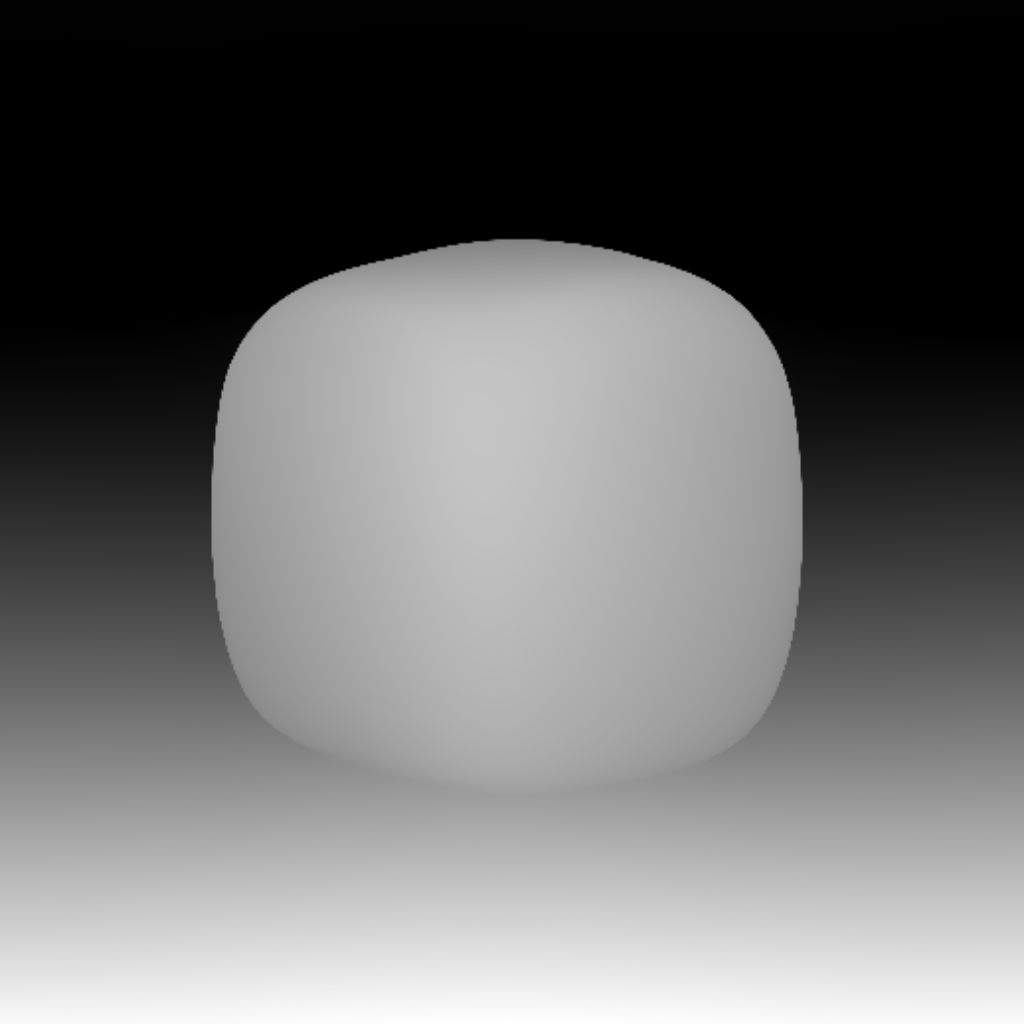
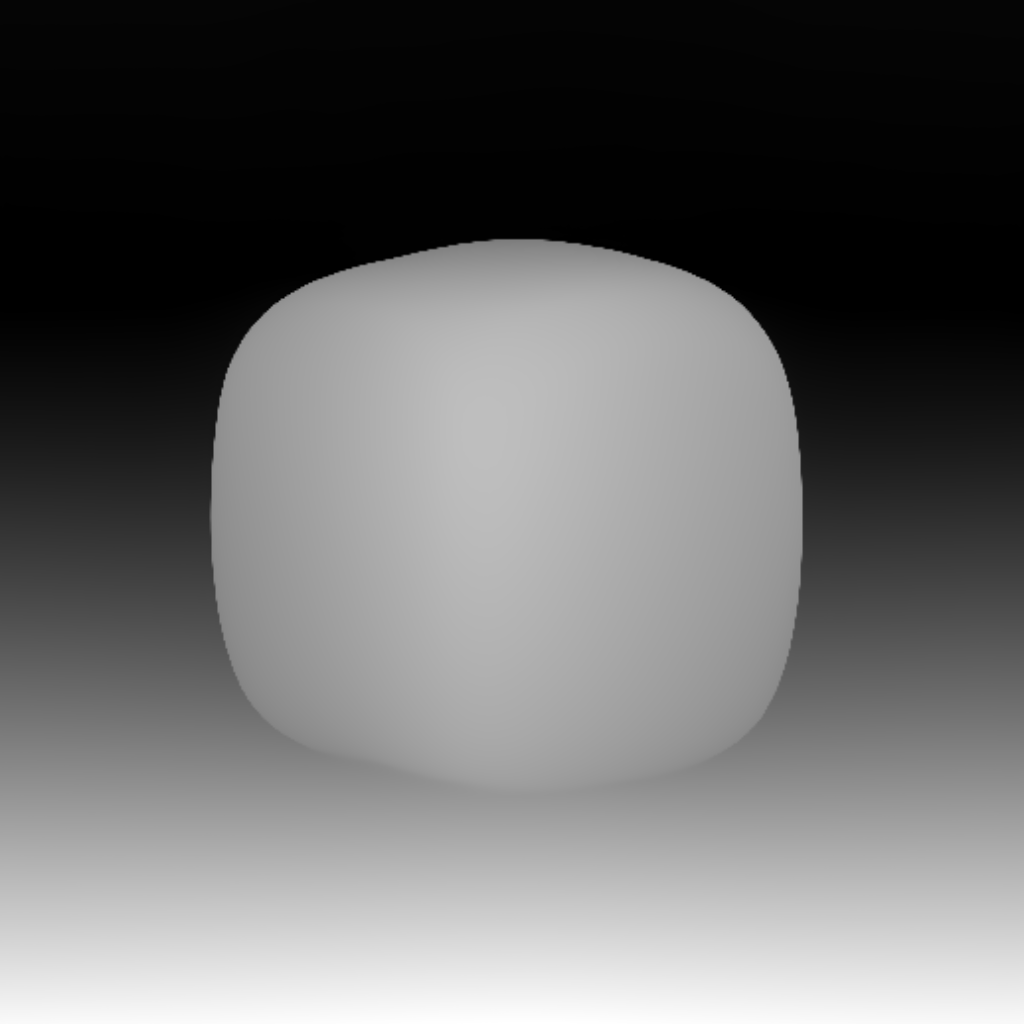
feat(taerea): curate to 8 complete-triad products, click-to-cycle 3 views
Settle: Stack Vessel, Cord Disc, Hook, Travel Block — all a/b/c or
objekt/material/moment, complete triads only.
Carry: swapped in the 4 real PLA prototypes (Dosing Pipette, Carry Card,
Module Hook Rail, Mirror Clip System) — decided products get all 3 views.

New shared assets/product_views.js: click the image, cycles through its
3 views with a dot indicator. depth-parallax rewired to the primary view
of each swapped product (6 new depth+displacement maps generated).

Root's Brass Weight: depth map is unusable (Depth Anything V2 can't
resolve facets on reflective brass — tried both base and large models,
same flat-blob result) — depth-parallax disabled for that one image
rather than shipping a broken-looking effect.

Changed region(s): [[0.0, 0.0, 1.0, 0.3438], [0.7188, 0.2812, 1.0, 0.3438]]

diff --git a/carry.html b/carry.html
@@ -158,6 +158,29 @@
     overflow: hidden;
   }
 
+  .view-dots {
+    position: absolute;
+    bottom: 0.8vw;
+    left: 50%;
+    transform: translateX(-50%);
+    display: flex;
+    gap: 0.5vw;
+    z-index: 2;
+  }
+
+  .view-dot {
+    width: 0.4vw;
+    height: 0.4vw;
+    border-radius: 50%;
+    background: rgba(255,255,255,0.5);
+    transition: background 0.25s ease, transform 0.25s ease;
+  }
+
+  .view-dot.active {
+    background: #8a9ab8;
+    transform: scale(1.3);
+  }
+
   .card-placeholder {
     width: 100%;
     height: 100%;
@@ -356,7 +379,7 @@
 
     <article class="product-card">
       <div class="card-image">
-        <img class="card-img depth-img" data-depth="assets/depth_disp/carry_product_1_disp.png" src="assets/carry_product_1.png" alt="Stone Vessel" onerror="this.style.display='none';this.parentElement.querySelector('.card-placeholder').style.display='block';">
+        <img class="card-img depth-img views-img" data-depth="assets/depth_disp/jakob_r1_pipette_objekt_disp.png" data-views="assets/catalog/jakob_r1_pipette_objekt.png,assets/catalog/jakob_r1_pipette_material.png,assets/catalog/jakob_r1_pipette_moment.png" src="assets/catalog/jakob_r1_pipette_objekt.png" alt="Dosing Pipette" onerror="this.style.display='none';this.parentElement.querySelector('.card-placeholder').style.display='block';">
         <svg class="card-placeholder" viewBox="0 0 100 100" preserveAspectRatio="none" xmlns="http://www.w3.org/2000/svg" style="display:none;">
           <rect width="100" height="100" fill="#C8BFB0"/>
         </svg>
@@ -365,19 +388,19 @@
         </div>
       </div>
       <div class="card-meta">
-        <span class="product-category">Carry</span>
+        <span class="product-category">PLA Prototype</span>
         <div class="card-meta-row">
-          <span class="product-name">Stone Vessel</span>
+          <span class="product-name">Dosing Pipette</span>
           <span class="meta-sep">—</span>
-          <span class="product-price">€ 148</span>
+          <span class="product-price">€ 42</span>
         </div>
-        <span class="product-desc">Hand-turned limestone cup. One piece, one purpose.</span>
+        <span class="product-desc">Amber glass, white PLA cap. Click through 3 views.</span>
       </div>
     </article>
 
     <article class="product-card">
       <div class="card-image">
-        <img class="card-img depth-img" data-depth="assets/depth_disp/carry_product_2_disp.png" src="assets/carry_product_2.png" alt="Travel Incense Set" onerror="this.style.display='none';this.parentElement.querySelector('.card-placeholder').style.display='block';">
+        <img class="card-img depth-img views-img" data-depth="assets/depth_disp/jakob_r2_card_objekt_disp.png" data-views="assets/catalog/jakob_r2_card_objekt.png,assets/catalog/jakob_r2_card_material.png,assets/catalog/jakob_r2_card_moment.png" src="assets/catalog/jakob_r2_card_objekt.png" alt="Carry Card" onerror="this.style.display='none';this.parentElement.querySelector('.card-placeholder').style.display='block';">
         <svg class="card-placeholder" viewBox="0 0 100 100" preserveAspectRatio="none" xmlns="http://www.w3.org/2000/svg" style="display:none;">
           <rect width="100" height="100" fill="#A8966E"/>
         </svg>
@@ -386,19 +409,19 @@
         </div>
       </div>
       <div class="card-meta">
-        <span class="product-category">Carry</span>
+        <span class="product-category">PLA Prototype</span>
         <div class="card-meta-row">
-          <span class="product-name">Travel Incense Set</span>
+          <span class="product-name">Carry Card</span>
           <span class="meta-sep">—</span>
-          <span class="product-price">€ 89</span>
+          <span class="product-price">€ 28</span>
         </div>
-        <span class="product-desc">Brass holder, resin cones. Ritual, compressed.</span>
+        <span class="product-desc">Ultra-thin organizer, single slot. Click through 3 views.</span>
       </div>
     </article>
 
     <article class="product-card">
       <div class="card-image">
-        <img class="card-img depth-img" data-depth="assets/depth_disp/carry_product_3_disp.png" src="assets/carry_product_3.png" alt="Linen Pouch" onerror="this.style.display='none';this.parentElement.querySelector('.card-placeholder').style.display='block';">
+        <img class="card-img depth-img views-img" data-depth="assets/depth_disp/jakob_r3_rail_objekt_disp.png" data-views="assets/catalog/jakob_r3_rail_objekt.png,assets/catalog/jakob_r3_rail_material.png,assets/catalog/jakob_r3_rail_moment.png" src="assets/catalog/jakob_r3_rail_objekt.png" alt="Module Hook Rail" onerror="this.style.display='none';this.parentElement.querySelector('.card-placeholder').style.display='block';">
         <svg class="card-placeholder" viewBox="0 0 100 100" preserveAspectRatio="none" xmlns="http://www.w3.org/2000/svg" style="display:none;">
           <rect width="100" height="100" fill="#7A7260"/>
         </svg>
@@ -407,19 +430,19 @@
         </div>
       </div>
       <div class="card-meta">
-        <span class="product-category">Carry</span>
+        <span class="product-category">PLA Prototype</span>
         <div class="card-meta-row">
-          <span class="product-name">Linen Pouch</span>
+          <span class="product-name">Module Hook Rail</span>
           <span class="meta-sep">—</span>
-          <span class="product-price">€ 112</span>
+          <span class="product-price">€ 56</span>
         </div>
-        <span class="product-desc">Waxed linen, brass clasp. Carries what matters.</span>
+        <span class="product-desc">Modular wall rail, geometric slots. Click through 3 views.</span>
       </div>
     </article>
 
     <article class="product-card">
       <div class="card-image">
-        <img class="card-img depth-img" data-depth="assets/depth_disp/carry_product_4_disp.png" src="assets/carry_product_4.png" alt="Field Notebook" onerror="this.style.display='none';this.parentElement.querySelector('.card-placeholder').style.display='block';">
+        <img class="card-img depth-img views-img" data-depth="assets/depth_disp/jakob_r4_clip_objekt_disp.png" data-views="assets/catalog/jakob_r4_clip_objekt.png,assets/catalog/jakob_r4_clip_material.png,assets/catalog/jakob_r4_clip_moment.png" src="assets/catalog/jakob_r4_clip_objekt.png" alt="Mirror Clip System" onerror="this.style.display='none';this.parentElement.querySelector('.card-placeholder').style.display='block';">
         <svg class="card-placeholder" viewBox="0 0 100 100" preserveAspectRatio="none" xmlns="http://www.w3.org/2000/svg" style="display:none;">
           <rect width="100" height="100" fill="#4A4A4A"/>
         </svg>
@@ -428,13 +451,13 @@
         </div>
       </div>
       <div class="card-meta">
-        <span class="product-category">Carry</span>
+        <span class="product-category">PLA Prototype</span>
         <div class="card-meta-row">
-          <span class="product-name">Field Notebook</span>
+          <span class="product-name">Mirror Clip System</span>
           <span class="meta-sep">—</span>
-          <span class="product-price">€ 64</span>
+          <span class="product-price">€ 34</span>
         </div>
-        <span class="product-desc">Stone-paper cover. Writes anywhere, holds everything.</span>
+        <span class="product-desc">Mounts thin mirror panels. Click through 3 views.</span>
       </div>
     </article>
 
@@ -442,19 +465,21 @@
 
   <footer class="shop-footer">
     <span class="footer-left">Carry II</span>
-    <span class="tagline">Objects that travel.</span>
+    <span class="tagline">Real prototypes, real objects.</span>
     <nav class="footer-nav">
-      <a class="footer-nav-item active" href="#">Stone</a>
-      <a class="footer-nav-item" href="#">Brass</a>
-      <a class="footer-nav-item" href="#">Linen</a>
-      <a class="footer-nav-item" href="#">Paper</a>
+      <a class="footer-nav-item active" href="#">Pipette</a>
+      <a class="footer-nav-item" href="#">Card</a>
+      <a class="footer-nav-item" href="#">Rail</a>
+      <a class="footer-nav-item" href="#">Clip</a>
     </nav>
   </footer>
 
 </div>
 
 <script src="assets/depth_parallax.js"></script>
+<script src="assets/product_views.js"></script>
 <script>
+  window.initProductViews();
   window.initDepthParallax();
 </script>
 

diff --git a/settle.html b/settle.html
@@ -129,6 +129,29 @@
     overflow: hidden;
   }
 
+  .view-dots {
+    position: absolute;
+    bottom: 0.8vw;
+    left: 50%;
+    transform: translateX(-50%);
+    display: flex;
+    gap: 0.5vw;
+    z-index: 2;
+  }
+
+  .view-dot {
+    width: 0.4vw;
+    height: 0.4vw;
+    border-radius: 50%;
+    background: rgba(255,255,255,0.5);
+    transition: background 0.25s ease, transform 0.25s ease;
+  }
+
+  .view-dot.active {
+    background: #b8a98a;
+    transform: scale(1.3);
+  }
+
   .card-placeholder {
     width: 100%;
     height: 100%;
@@ -355,7 +378,7 @@
 
     <article class="product-card">
       <div class="card-image">
-        <img class="card-img depth-img" data-depth="assets/depth_disp/b6_vessel_c_disp.png" src="assets/catalog/b6_vessel_c.png" alt="Stack Vessel"
+        <img class="card-img depth-img views-img" data-depth="assets/depth_disp/b6_vessel_c_disp.png" data-views="assets/catalog/b6_vessel_a.png,assets/catalog/b6_vessel_b.png,assets/catalog/b6_vessel_c.png" src="assets/catalog/b6_vessel_c.png" alt="Stack Vessel"
           onerror="this.style.display='none';this.nextElementSibling.style.display='block';">
         <svg class="card-placeholder" viewBox="0 0 100 100" preserveAspectRatio="none" xmlns="http://www.w3.org/2000/svg" style="display:none;">
           <rect width="100" height="100" fill="#C4BDB4"/>
@@ -371,13 +394,13 @@
           <span class="meta-sep">—</span>
           <span class="product-price">€128</span>
         </div>
-        <span class="product-desc">White PLA cylinder, stackable, holds the ritual.</span>
+        <span class="product-desc">White PLA cylinder, stackable. Click through 3 views.</span>
       </div>
     </article>
 
     <article class="product-card">
       <div class="card-image">
-        <img class="card-img depth-img" data-depth="assets/depth_disp/b1_cord_disc_b_disp.png" src="assets/catalog/b1_cord_disc_b.png" alt="Cord Disc"
+        <img class="card-img depth-img views-img" data-depth="assets/depth_disp/b1_cord_disc_b_disp.png" data-views="assets/catalog/b1_cord_disc_a.png,assets/catalog/b1_cord_disc_b.png,assets/catalog/b1_cord_disc_c.png" src="assets/catalog/b1_cord_disc_b.png" alt="Cord Disc"
           onerror="this.style.display='none';this.nextElementSibling.style.display='block';">
         <svg class="card-placeholder" viewBox="0 0 100 100" preserveAspectRatio="none" xmlns="http://www.w3.org/2000/svg" style="display:none;">
           <rect width="100" height="100" fill="#E8E0D5"/>
@@ -393,13 +416,13 @@
           <span class="meta-sep">—</span>
           <span class="product-price">€45</span>
         </div>
-        <span class="product-desc">Cable wrapped, nothing loose. Quiet on any surface.</span>
+        <span class="product-desc">Cable wrapped, nothing loose. Click through 3 views.</span>
       </div>
     </article>
 
     <article class="product-card">
       <div class="card-image">
-        <img class="card-img depth-img" data-depth="assets/depth_disp/b3_candle_b_disp.png" src="assets/catalog/b3_candle_b.png" alt="Candle Block"
+        <img class="card-img depth-img views-img" data-depth="assets/depth_disp/b4_hook_a_disp.png" data-views="assets/catalog/b4_hook_a.png,assets/catalog/b4_hook_b.png,assets/catalog/b4_hook_c.png" src="assets/catalog/b4_hook_a.png" alt="Hook"
           onerror="this.style.display='none';this.nextElementSibling.style.display='block';">
         <svg class="card-placeholder" viewBox="0 0 100 100" preserveAspectRatio="none" xmlns="http://www.w3.org/2000/svg" style="display:none;">
           <rect width="100" height="100" fill="#B8A070"/>
@@ -409,19 +432,19 @@
         </div>
       </div>
       <div class="card-meta">
-        <span class="product-category">Light</span>
+        <span class="product-category">Fixture</span>
         <div class="card-meta-row">
-          <span class="product-name">Candle Block</span>
+          <span class="product-name">Hook</span>
           <span class="meta-sep">—</span>
-          <span class="product-price">€78</span>
+          <span class="product-price">€38</span>
         </div>
-        <span class="product-desc">Solid form, warm interior. Stays when you leave.</span>
+        <span class="product-desc">Single point, orange grip. Click through 3 views.</span>
       </div>
     </article>
 
     <article class="product-card">
       <div class="card-image">
-        <img class="card-img depth-img" data-depth="assets/depth_disp/b5_tray_c_disp.png" src="assets/catalog/b5_tray_c.png" alt="Form Tray"
+        <img class="card-img depth-img views-img" data-depth="assets/depth_disp/c_travel_block_objekt_disp.png" data-views="assets/catalog/c_travel_block_objekt.png,assets/catalog/c_travel_block_material.png,assets/catalog/c_travel_block_moment.png" src="assets/catalog/c_travel_block_objekt.png" alt="Travel Block"
           onerror="this.style.display='none';this.nextElementSibling.style.display='block';">
         <svg class="card-placeholder" viewBox="0 0 100 100" preserveAspectRatio="none" xmlns="http://www.w3.org/2000/svg" style="display:none;">
           <rect width="100" height="100" fill="#D6CAB8"/>
@@ -433,11 +456,11 @@
       <div class="card-meta">
         <span class="product-category">Surface</span>
         <div class="card-meta-row">
-          <span class="product-name">Form Tray</span>
+          <span class="product-name">Travel Block</span>
           <span class="meta-sep">—</span>
           <span class="product-price">€92</span>
         </div>
-        <span class="product-desc">Sharp edges, shallow walls. Collects what matters.</span>
+        <span class="product-desc">Solid form, cable-ready. Click through 3 views.</span>
       </div>
     </article>
 
@@ -447,9 +470,9 @@
     <span class="footer-left">Settle I</span>
     <span class="tagline">Objects that stay.</span>
     <nav class="footer-nav">
-      <a class="footer-nav-item active" href="#">Scent</a>
-      <a class="footer-nav-item" href="#">Textile</a>
-      <a class="footer-nav-item" href="#">Light</a>
+      <a class="footer-nav-item active" href="#">Vessel</a>
+      <a class="footer-nav-item" href="#">Organizer</a>
+      <a class="footer-nav-item" href="#">Fixture</a>
       <a class="footer-nav-item" href="#">Surface</a>
     </nav>
   </footer>
@@ -457,7 +480,9 @@
 </div>
 
 <script src="assets/depth_parallax.js"></script>
+<script src="assets/product_views.js"></script>
 <script>
+  window.initProductViews();
   window.initDepthParallax();
 </script>
 

diff --git a/assets/product_views.js b/assets/product_views.js
@@ -1,0 +1,54 @@
+/**
+ * product_views.js — click-to-cycle through a product's 3 views
+ * (OBJEKT → MATERIAL → MOMENT, or A → B → C).
+ *
+ * Usage: <img class="card-img views-img" data-views="a.png,b.png,c.png" src="a.png">
+ * then call window.initProductViews() after DOM is ready.
+ *
+ * A small view-index dot indicator is inserted as a sibling right after
+ * the image, inside the same .card-image/.card-img-wrap container, so it
+ * inherits that container's position:relative without extra markup.
+ */
+(function () {
+  function buildDots(container, count, activeIndex) {
+    var wrap = document.createElement('div');
+    wrap.className = 'view-dots';
+    for (var i = 0; i < count; i++) {
+      var dot = document.createElement('span');
+      dot.className = 'view-dot' + (i === activeIndex ? ' active' : '');
+      wrap.appendChild(dot);
+    }
+    container.appendChild(wrap);
+    return wrap;
+  }
+
+  function initProductViews() {
+    var imgs = document.querySelectorAll('.views-img[data-views]');
+
+    imgs.forEach(function (img) {
+      var sources = img.getAttribute('data-views').split(',').map(function (s) { return s.trim(); });
+      if (sources.length < 2) return;
+
+      var index = 0;
+      var container = img.parentElement;
+      var dotsWrap = buildDots(container, sources.length, index);
+
+      function setView(i) {
+        index = i;
+        img.src = sources[index];
+        var dots = dotsWrap.querySelectorAll('.view-dot');
+        dots.forEach(function (d, di) {
+          d.classList.toggle('active', di === index);
+        });
+      }
+
+      container.style.cursor = 'pointer';
+      container.addEventListener('click', function (e) {
+        e.stopPropagation();
+        setView((index + 1) % sources.length);
+      });
+    });
+  }
+
+  window.initProductViews = initProductViews;
+})();

diff --git a/root.html b/root.html
@@ -469,7 +469,7 @@
       <!-- Brass Weight: 16:9 landscape bottom -->
       <article class="card-small">
         <div class="card-img-wrap">
-          <img class="card-img depth-img" data-depth="assets/depth_disp/root_product_4_disp.png" src="assets/root_product_4.png" alt="Brass Weight"
+          <img class="card-img" src="assets/root_product_4.png" alt="Brass Weight"
             onerror="this.style.display='none';this.parentNode.insertAdjacentHTML('beforeend','<svg style=\'width:100%;height:100%;display:block\' viewBox=\'0 0 100 100\' preserveAspectRatio=\'none\' xmlns=\'http://www.w3.org/2000/svg\'><rect width=\'100\' height=\'100\' fill=\'#b8952a\'/></svg>')">
           <div class="card-overlay">
             <span class="overlay-label">View Object</span>